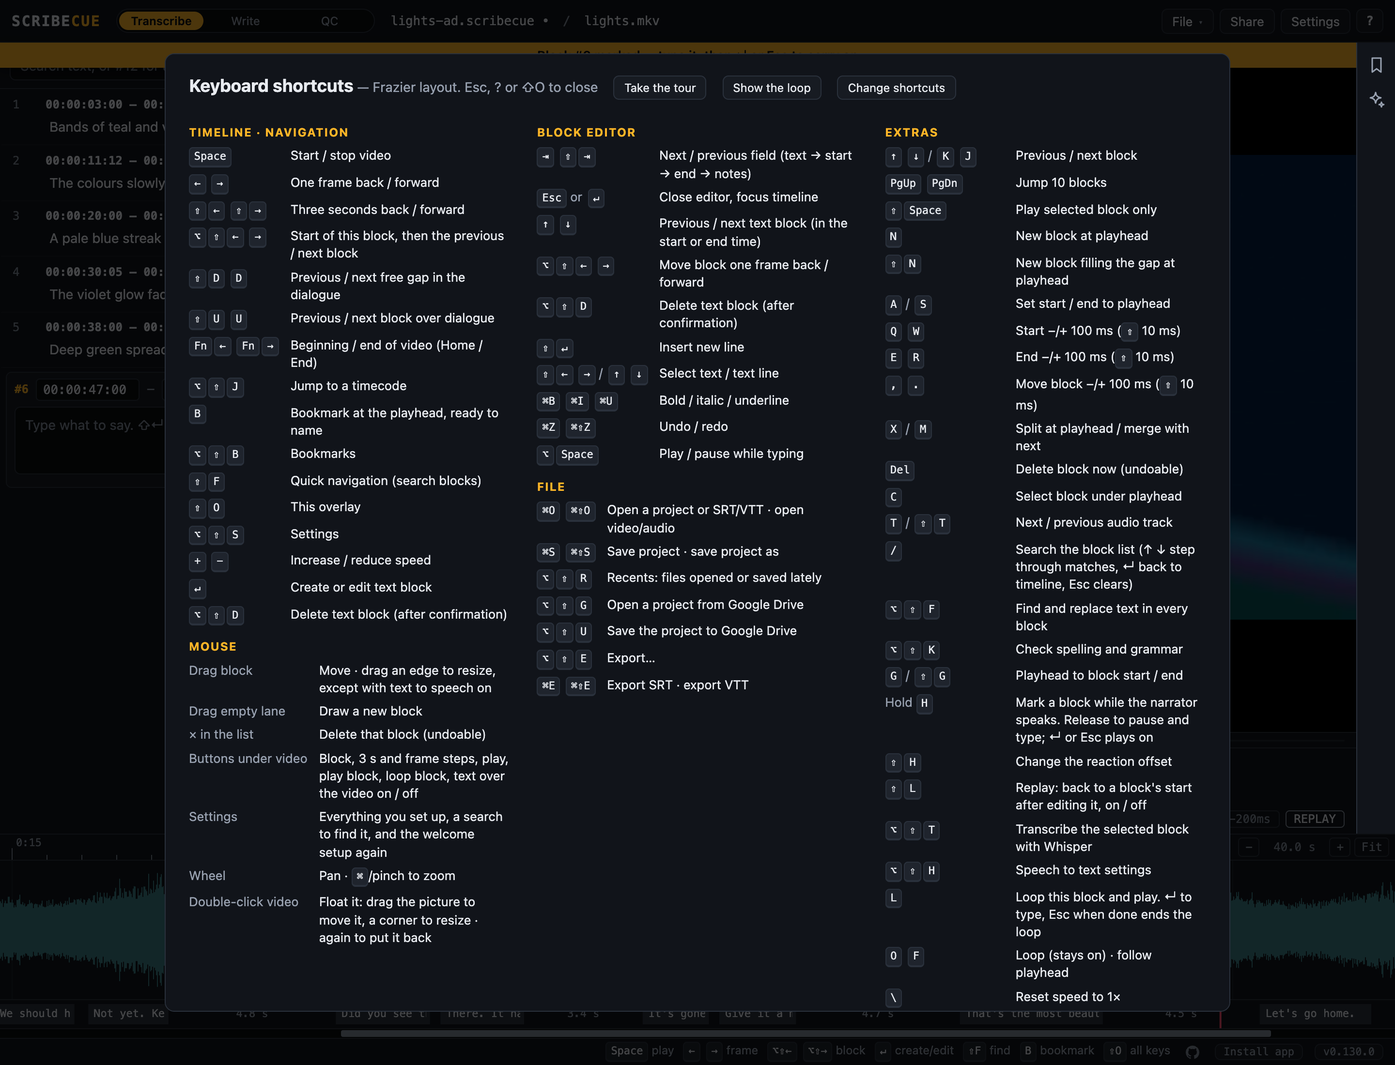
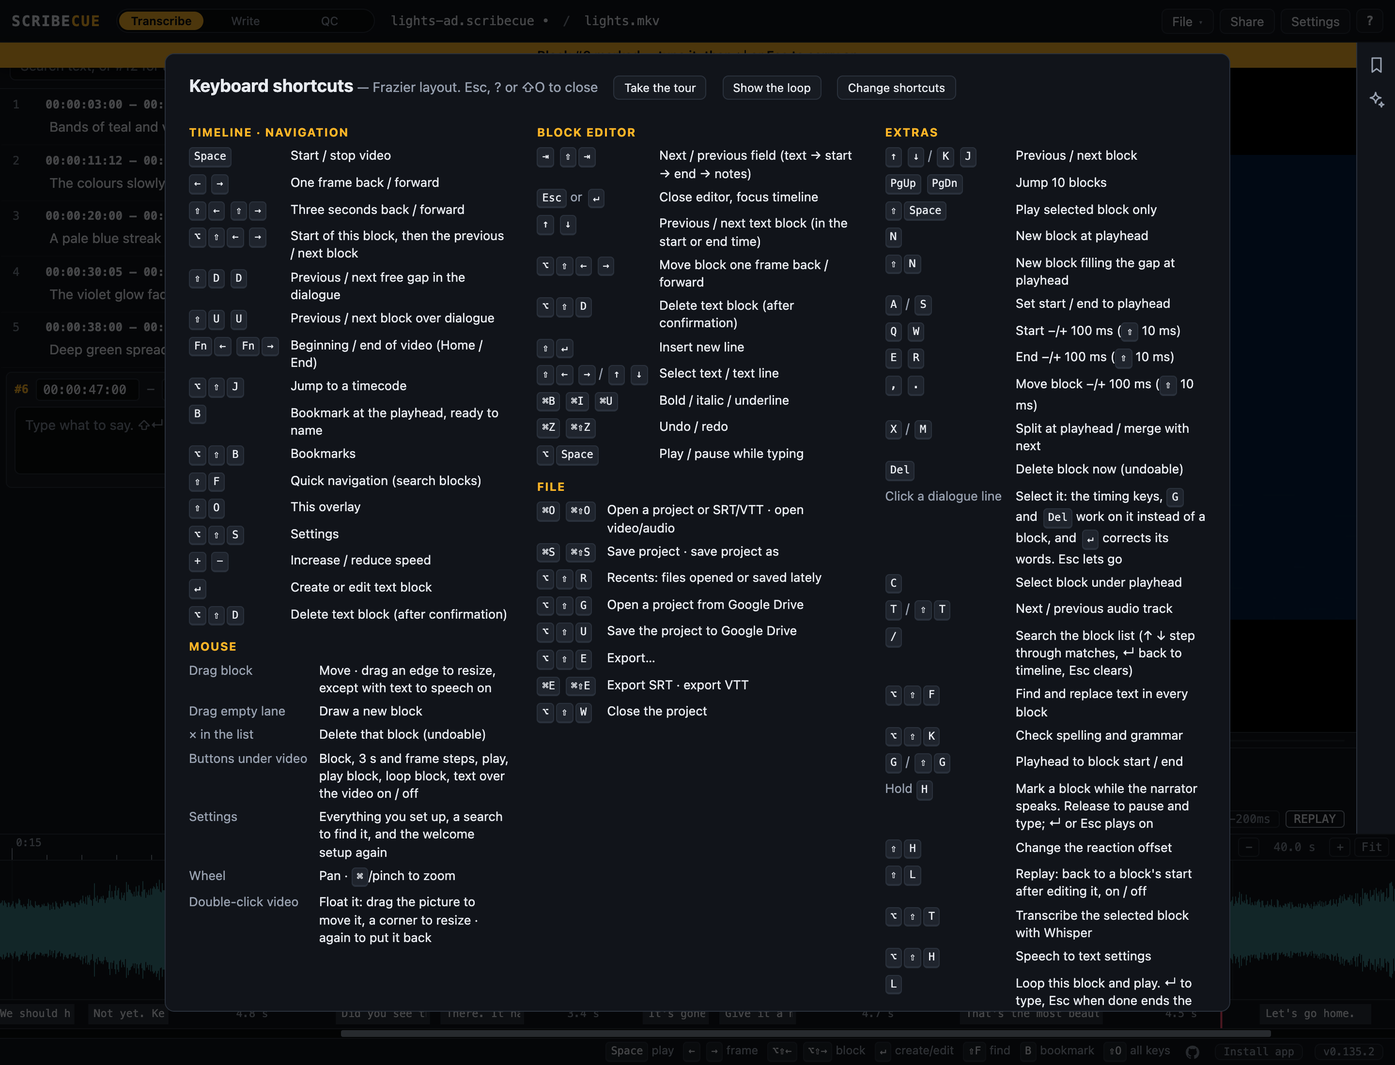
Add File → Close, and make New clear the blocks and the video (#127)
* Add File → Close, and make New clear the blocks and the video

Close (Alt+Shift+W) takes over New's "New project": it closes the project and the video,
asking to save first when there are unsaved changes, or explaining when leaving a shared
project. New now offers "Clear the blocks and the video" (asks to save the same way) and
"Next episode". New is hidden in QC and Record mode, where neither applies.

* Keep the Close screenshot offline

---------

diff --git a/app/js/app.js b/app/js/app.js
@@ -6300,56 +6300,82 @@ async function openAny() {
   }
 }
 
-// New: closes the video and clears the blocks, after asking.
-// New: a choice between clearing only the blocks and starting a whole new project.
+// New: clear the blocks and keep the video, or start the next episode. Close starts
+// different work.
 const newDlg = $('newDlg');
 function startAgain() {
   const blocks = S.cues.length, media = S.videoFile?.name;
-  if (!blocks && !media && !S.comments.length && !S.bookmarks.length && !S.notes.trim() && !S.dirty && !S.reviewId) return newProject(false);
   const n = blocks === 1 ? '1 block' : `${blocks} blocks`;
-  $('newWhat').textContent = S.comments.length && !blocks && !media ? `This project has ${S.comments.length} timeline comments.` : blocks ? `This project has ${n}${media ? `, with ${media} open` : ''}.` : media ? `${media} is open, with no blocks yet.` : 'This project has no blocks yet.';
   // Clearing a shared project's blocks clears them for everyone: only its owner may.
-  newDlg.querySelector('[data-choice="blocks"]').hidden = !blocks || qc() || (!!myShare && myShare.link !== 'owner');
+  const canClear = !!(blocks || media) && !qc() && !(!!myShare && myShare.link !== 'owner');
+  const canEpisode = !qc() && !S.reviewId && S.mode !== 'record';
+  if (!canClear && !canEpisode) { toast('Nothing to start again here. File → Close starts different work'); return; }
+  $('newWhat').textContent = blocks ? `This project has ${n}${media ? `, with ${media} open` : ''}.` : media ? `${media} is open, with no blocks yet.` : 'This project has no blocks yet.';
+  newDlg.querySelector('[data-choice="blocks"]').hidden = !canClear;
+  newDlg.querySelector('[data-choice="episode"]').hidden = !canEpisode;
   const unsaved = S.dirty && !myShare; // a shared project keeps its changes
-  $('newUnsaved').hidden = !unsaved;
-  $('newSave').hidden = !unsaved;
-  // The next episode of a series: a new project that keeps what carries over.
-  newDlg.querySelector('[data-choice="episode"]').hidden = qc() || !!S.reviewId || S.mode === 'record';
   const told = cleanScenes(S.scenes).some((s) => s.text.trim());
   $('newEpisodeNote').textContent = `A new project for the next episode of a series. Keeps your notes and spelling words${
     told ? `, and adds the story so far to the notes${aiConnected() ? ', written by AI help from the scene summaries' : ', from the scene summaries'}` : ''}.${unsaved ? ' Saves this episode first.' : ''}`;
-  $('newProjectLabel').textContent = unsaved ? 'Start without saving' : 'New project';
-  $('newProjectNote').textContent = myShare ? `Leaves this shared project and closes the video. The project stays in this browser: open it again from Shared projects.${relay?.unsent() ? ' Your last changes haven’t reached it yet. They’re kept here, and sent when you open it again.' : ''}`
-    : qc() ? 'Closes this review and the video, then opens a blank project in Write mode.' : 'Clears the blocks and notes, and closes the video, for different work.';
-  $('newUndo').hidden = !!S.reviewId;
+  $('newUndo').hidden = !blocks || !canClear;
   newDlg.showModal();
-  newDlg.querySelector(`[data-choice="${blocks && !qc() ? 'blocks' : 'project'}"]`).focus();
+  newDlg.querySelector(`[data-choice="${canClear ? 'blocks' : 'episode'}"]`).focus();
 }
 for (const b of newDlg.querySelectorAll('.wzchoice')) {
   b.addEventListener('click', () => {
     newDlg.close();
-    if (b.dataset.choice === 'blocks') clearBlocks();
-    else if (b.dataset.choice === 'episode') {
-      if (S.dirty && !myShare) startNewProject({ saveFirst: true, save: () => saveProject(), isDirty: () => S.dirty, start: nextEpisode });
-      else nextEpisode();
-    } else newProject(false);
+    if (b.dataset.choice === 'blocks') askToSave('clear');
+    else if (S.dirty && !myShare) startNewProject({ saveFirst: true, save: () => saveProject(), isDirty: () => S.dirty, start: nextEpisode });
+    else nextEpisode();
   });
 }
-$('newSave').addEventListener('click', async () => {
-  const b = $('newSave');
-  if (b.disabled) return;
-  b.disabled = true;
-  for (const choice of newDlg.querySelectorAll('.wzchoice')) choice.disabled = true;
-  try {
-    await startNewProject({ saveFirst: true, save: () => saveProject(), isDirty: () => S.dirty, start: () => { if (newDlg.open) { newDlg.close(); newProject(false); } } });
-  } finally {
-    b.disabled = false;
-    for (const choice of newDlg.querySelectorAll('.wzchoice')) choice.disabled = false;
-  }
-});
 $('newCancel').addEventListener('click', () => newDlg.close());
 newDlg.addEventListener('click', (e) => { if (e.target === newDlg) newDlg.close(); });
-document.addEventListener('keydown', (e) => { if (newDlg.open) e.stopPropagation(); }, true);
+document.addEventListener('keydown', (e) => { if (newDlg.open || closeDlg.open) e.stopPropagation(); }, true);
+
+// Close: the project and the video, for different work. Clearing the blocks and the
+// video asks the same way. Each asks first only when something would be lost or left:
+// changes not saved, or, for Close, a shared project.
+const closeDlg = $('closeDlg');
+const ASK = {
+  close: { title: 'Close the project?', save: 'Save and close', go: 'Close without saving', plain: 'Close' },
+  clear: { title: 'Clear the blocks and the video?', save: 'Save and clear', go: 'Clear without saving', plain: 'Clear' },
+};
+let asking = 'close';
+const closeProject = () => askToSave('close');
+function askToSave(what) {
+  const empty = !S.cues.length && !S.videoFile && !S.comments.length && !S.bookmarks.length && !S.notes.trim() && !S.reviewId;
+  const unsaved = S.dirty && !myShare && !empty, leaving = what === 'close' && !!myShare;
+  if (!unsaved && !leaving) return doAsked(what);
+  asking = what;
+  const words = ASK[what];
+  $('closeTitle').textContent = words.title;
+  $('closeWhat').textContent = leaving
+    ? `You’ll leave this shared project. It stays in this browser: open it again from Shared projects.${relay?.unsent() ? ' Your last changes haven’t reached it yet. They’re kept here, and sent when you open it again.' : ''}`
+    : `Your changes to ${S.subName === 'untitled.srt' ? 'this project' : S.subName} aren’t saved in a project file.`;
+  $('closeSave').hidden = !unsaved;
+  $('closeSave').textContent = words.save;
+  $('closeGo').textContent = unsaved ? words.go : words.plain;
+  closeDlg.showModal();
+  (unsaved ? $('closeSave') : $('closeGo')).focus();
+}
+function doAsked(what) {
+  if (what === 'clear') return clearBlocks();
+  const blocks = S.cues.length, review = qc();
+  newProject(false);
+  toast(review ? 'Closed the review' : blocks ? `Closed the project. ${IS_MAC ? '⌘Z' : 'Ctrl+Z'} brings the blocks back` : 'Closed the project');
+}
+$('closeGo').addEventListener('click', () => { closeDlg.close(); doAsked(asking); });
+$('closeSave').addEventListener('click', async () => {
+  const b = $('closeSave');
+  if (b.disabled) return;
+  b.disabled = $('closeGo').disabled = true;
+  try {
+    await startNewProject({ saveFirst: true, save: () => saveProject(), isDirty: () => S.dirty, start: () => { if (closeDlg.open) { closeDlg.close(); doAsked(asking); } } });
+  } finally { b.disabled = $('closeGo').disabled = false; }
+});
+$('closeCancel').addEventListener('click', () => closeDlg.close());
+closeDlg.addEventListener('click', (e) => { if (e.target === closeDlg) closeDlg.close(); });
 
 // Next episode: a new project with this one's notes and spelling words. The story so far
 // goes at the top of the notes: the one before, with this episode's scene summaries added,
@@ -6385,16 +6411,18 @@ async function nextEpisode() {
   toast(`Next episode: notes${recap ? ' with the story so far' : ''} and spelling words kept. Open its video with ${IS_MAC ? '⌘⇧O' : 'Ctrl+Shift+O'}.${said}`);
 }
 
-// Removes every block, keeping the video, the project file and the notes.
+// Removes every block and closes the video, keeping the project file and the notes.
 function clearBlocks() {
-  const n = S.cues.length;
-  if (!n) return;
+  const n = S.cues.length, media = !!S.videoFile;
+  if (!n && !media) return;
   stopJob();
+  closeVideo();
+  if (!n) return toast('Closed the video');
   pushUndo();
   S.cues = [];
   changed();
   select(null);
-  toast(`Cleared ${n === 1 ? 'the 1 block' : `all ${n} blocks`} — ${IS_MAC ? '⌘' : 'Ctrl+'}Z brings them back`);
+  toast(`Cleared ${n === 1 ? 'the 1 block' : `all ${n} blocks`} and closed the video — ${IS_MAC ? '⌘' : 'Ctrl+'}Z brings the blocks back`);
 }
 
 // ask: false when the choice was already made in the Start again dialog.
@@ -8062,6 +8090,7 @@ const actions = {
   help: () => toggleHelp(),
   settings: () => showGeneral(),
   newProject: () => startAgain(),
+  closeProject: () => closeProject(),
   comments: () => toggleComments(),
   bookmarks: () => toggleBookmarks(),
   share: () => shareUi?.open(),
@@ -8633,6 +8662,7 @@ const RUN = {
   recents: () => openRecents(),
   openDrive: () => openFromDrive(),
   saveDrive: () => saveToDrive(),
+  closeProject: () => closeProject(),
   zoomIn: () => zoom(1.5),
   zoomOut: () => zoom(1 / 1.5),
   zoomFit: () => fitAll(),

diff --git a/app/index.html b/app/index.html
@@ -52,7 +52,7 @@
       <span class="navwrap file-wrap">
         <button data-act="fileMenu" id="fileBtn" aria-haspopup="menu" aria-expanded="false" aria-controls="fileMenu">File <span class="caret" aria-hidden="true">▾</span></button>
         <div class="navmenu filemenu" id="fileMenu" role="menu" aria-labelledby="fileBtn" hidden>
-          <button role="menuitem" data-act="newProject"><span><strong>New…</strong><span class="dim">clear the blocks and keep the video, or start a new project</span></span></button>
+          <button role="menuitem" data-act="newProject" class="not-qc not-record"><span><strong>New…</strong><span class="dim">clear the blocks and the video, or start the next episode</span></span></button>
           <button role="menuitem" data-act="openSubs"><span><strong>Open…</strong><span class="dim">a project, a script (SRT or VTT), or video or audio</span></span><kbd><span class="mod"></span>O</kbd></button>
           <button role="menuitem" data-act="recents" id="recentsItem"><span><strong>Recents…</strong><span class="dim">projects, packages and recording files opened or saved lately</span></span><span data-keys="recents"><kbd>⌥⇧R</kbd></span></button>
           <button role="menuitem" data-act="openDrive" id="openDriveItem" hidden><span><strong>Open from Google Drive…</strong><span class="dim">a project you saved to Drive, on any computer</span></span><span data-keys="openDrive"><kbd>⌥⇧G</kbd></span></button>
@@ -61,6 +61,7 @@
           <button role="menuitem" data-act="saveProjectAs"><span><strong>Save as…</strong><span class="dim">the project as a new file</span></span><kbd><span class="mod"></span>⇧S</kbd></button>
           <button role="menuitem" data-act="saveDrive" id="saveDriveItem" class="not-record" hidden><span><strong>Save to Google Drive</strong><span class="dim">keep the project in your Drive, to open on any computer</span></span><span data-keys="saveDrive"><kbd>⌥⇧U</kbd></span></button>
           <button role="menuitem" data-act="exportDialog" class="export-item"><span><strong>Export…</strong><span class="dim">a file to hand on: a package, audio, the script or a video</span></span><span data-keys="exportDialog"><kbd>⌥⇧E</kbd></span></button>
+          <button role="menuitem" data-act="closeProject"><span><strong>Close</strong><span class="dim">the project and the video, for different work</span></span><span data-keys="closeProject"><kbd>⌥⇧W</kbd></span></button>
         </div>
       </span>
       <span id="qcPermission" class="autotag qc-only" aria-live="polite">Comments only</span>
@@ -573,16 +574,20 @@ docker compose up -d --build</code></pre>
   <dialog id="newDlg" class="updbox wizard" aria-labelledby="newTitle">
     <h2 id="newTitle">Start again</h2>
     <p id="newWhat"></p>
-    <button class="wzcard wzchoice" data-choice="blocks"><span><strong>Clear the blocks</strong>
-      <span class="dim" id="newBlocksNote">Removes every block and keeps everything else: the video, the project file and
-        your notes. Ready to write from scratch, or to open a script.</span></span></button>
+    <button class="wzcard wzchoice" data-choice="blocks"><span><strong>Clear the blocks and the video</strong>
+      <span class="dim" id="newBlocksNote">Removes every block and closes the video. Keeps the project file and your
+        notes. Ready to open another video or script.</span></span></button>
     <button class="wzcard wzchoice" data-choice="episode"><span><strong>Next episode</strong>
       <span class="dim" id="newEpisodeNote"></span></span></button>
-    <button class="wzcard wzchoice" data-choice="project"><span><strong id="newProjectLabel">New project</strong>
-      <span class="dim" id="newProjectNote">Clears the blocks and notes, and closes the video, for different work.</span></span></button>
-    <p id="newUnsaved" class="dim" hidden>Your changes aren’t saved. Save before starting a new project, or choose Start without saving.</p>
     <p id="newUndo" class="dim small"><kbd><span class="mod"></span>Z</kbd> brings the blocks back.</p>
-    <div class="updbtns"><button id="newSave" class="hl" hidden>Save and start new project</button><button id="newCancel">Cancel</button></div>
+    <p class="dim small">To start different work, use <strong>File → Close</strong>.</p>
+    <div class="updbtns"><button id="newCancel">Cancel</button></div>
+  </dialog>
+
+  <dialog id="closeDlg" class="updbox" aria-labelledby="closeTitle">
+    <h2 id="closeTitle">Close the project?</h2>
+    <p id="closeWhat"></p>
+    <div class="updbtns"><button id="closeSave" class="hl">Save and close</button><button id="closeGo">Close without saving</button><button id="closeCancel">Cancel</button></div>
   </dialog>
 
   <dialog id="changeDlg" class="updbox wizard" aria-labelledby="chgTitle">
@@ -1850,6 +1855,7 @@ docker compose up -d --build</code></pre>
             <dt class="save-key" data-keys="saveDrive"><kbd>⌥</kbd><kbd>⇧</kbd><kbd>U</kbd></dt><dd class="save-key">Save the project to Google Drive</dd>
             <dt class="export-key" data-keys="exportDialog"><kbd>⌥</kbd><kbd>⇧</kbd><kbd>E</kbd></dt><dd class="export-key">Export…</dd>
             <dt class="export-key"><kbd><span class="mod"></span>E</kbd> <kbd><span class="mod"></span>⇧E</kbd></dt><dd class="export-key">Export SRT · export VTT</dd>
+            <dt data-keys="closeProject"><kbd>⌥</kbd><kbd>⇧</kbd><kbd>W</kbd></dt><dd>Close the project</dd>
           </dl>
           <h3 class="record-only">Record mode</h3>
           <dl class="record-only">

diff --git a/app/css/style.css b/app/css/style.css
@@ -110,7 +110,7 @@ kbd + kbd { margin-left: 2px; }
 .mode-record .hint.record-only, .mode-record .setrec.record-only { display: block; }
 .mode-record dl.record-only { display: grid; } /* the shortcuts overlay's key lists */
 .mode-record .transcribe-only, .mode-record .write-only, .mode-record #modeSw { display: none; }
-.mode-record .not-record { display: none; }
+.mode-record .not-record, .mode-qc .not-qc { display: none; }
 /* Record mode: the script is locked, so nothing offers to change or save it. */
 .mode-record .rowdel, .mode-record .edmove, .mode-record #edAuto, .mode-record #edTts, .mode-record #replaceBtn, .mode-record #aiBtn,
 .mode-record nav [data-act=newProject], .mode-record nav [data-act=saveProject], .mode-record nav [data-act=saveProjectAs],
@@ -1466,7 +1466,7 @@ button.danger:disabled { color: var(--dim); border-color: var(--line); font-weig
 #aiNotes, #setAiNotesText { width: 100%; margin: 6px 0 2px; font: 13px/1.45 var(--sans); }
 #aiNotesBtn.on { color: var(--accent); border-color: var(--accent); }
 #verBtn.on { color: var(--accent); border-color: var(--accent); }
-#newDlg [hidden], #sttDlg [hidden] { display: none; }
+#newDlg [hidden], #closeDlg [hidden], #sttDlg [hidden] { display: none; }
 
 /* guided tour: the page dimmed except for the part being explained */
 .tour { position: fixed; inset: 0; z-index: 90; }

diff --git a/app/js/tour.js b/app/js/tour.js
@@ -119,7 +119,7 @@ export const STEPS = [
   {
     target: '#fileBtn',
     title: 'Projects and exports',
-    text: (mode) => `File has New, Open, Recents, Save and Export. Save keeps everything as a Scribecue project, so you can pick up where you left off, and Save to Google Drive lets you open it on any computer. Export (${keyFor('exportDialog')}) opens a window of every file you can make. ${mode === 'write'
+    text: (mode) => `File has ${mode === 'qc' ? '' : 'New, '}Open, Recents, Save, Export and Close. Save keeps everything as a Scribecue project, so you can pick up where you left off, and Save to Google Drive lets you open it on any computer. Export (${keyFor('exportDialog')}) opens a window of every file you can make. ${mode === 'write'
       ? 'It’s grouped by who it’s for: a QC package for a reviewer, a recording file for a narrator, finished audio, and files for other tools: the script as SRT, WebVTT or Excel, DAW markers and a video with subtitles.'
       : 'It has the script as SRT, WebVTT or Excel, DAW markers or a video with subtitles, to hand off.'} It can check spelling and grammar first.`,
   },

diff --git a/app/js/keymap.js b/app/js/keymap.js
@@ -114,6 +114,7 @@ export const GROUPS = [
     ['recents', 'Recents: files opened or saved lately', ['Alt+Shift+KeyR']],
     ['openDrive', 'Open a project from Google Drive', ['Alt+Shift+KeyG']],
     ['saveDrive', 'Save the project to Google Drive', ['Alt+Shift+KeyU']],
+    ['closeProject', 'Close the project', ['Alt+Shift+KeyW']],
     ['zoomIn', 'Zoom the timeline in', ['Alt+Equal', 'Alt+NumpadAdd']],
     ['zoomOut', 'Zoom the timeline out', ['Alt+Minus', 'Alt+NumpadSubtract']],
     ['zoomFit', 'Zoom the timeline to fit', ['Alt+Digit0', 'Alt+Numpad0']],

diff --git a/app/sw.js b/app/sw.js
@@ -38,7 +38,7 @@ const GUIDES = [
   'guides/docs/screenshots/comments.png', 'guides/docs/screenshots/bookmarks.png', 'guides/docs/screenshots/bookmarks-new.png',
   'guides/docs/screenshots/qc-playback.png',
   'guides/docs/screenshots/qc-editing.png',
-  'guides/docs/screenshots/qc-new-project.png',
+  'guides/docs/screenshots/qc-close.png',
   'guides/docs/screenshots/qc-package.png',
   'guides/docs/screenshots/recording.png',
   'guides/docs/screenshots/recording-menu.png',

diff --git a/Guides/TROUBLESHOOTING.md b/Guides/TROUBLESHOOTING.md
@@ -49,7 +49,7 @@ for its part of Scribecue: see [More help](#more-help).
 | Moving to another browser or computer, or between the web version and Docker | Save your projects and export your settings. See [Moving your work](INSTALL.md#moving-your-work). |
 | Google Drive won't connect | Allow pop-ups for Scribecue. Use the web version, or Docker at `localhost:8484` or `9484`: Google refuses other addresses. |
 | A project in Google Drive was saved as "Name (2)" | It changed on another computer since you opened it. Updating from 0.134.1 or older also makes one copy. Both are in Drive: open each, and keep the one you want. See the next row to tidy up. |
-| A copy you deleted in Google Drive comes back | Scribecue saved your work there again, so it isn't lost. To tidy up, start with **File → New…**. Then delete the copies you don't want in Drive, and rename the one you keep. Open it with **File → Open from Google Drive**. |
+| A copy you deleted in Google Drive comes back | Scribecue saved your work there again, so it isn't lost. To tidy up, start with **File → Close**. Then delete the copies you don't want in Drive, and rename the one you keep. Open it with **File → Open from Google Drive**. |
 | Settings from another browser haven't arrived | They're used when Scribecue opens again. In **Settings → Google Drive**, click **Reload now**. |
 | Worried the browser may clear your work | In **Settings → Offline and storage**, click **Keep it safe**. Saving a project keeps it safe either way. |
 | Wrong blocks after **File, New** | Press `Ctrl/Cmd+Z` to bring them back. |

diff --git a/Guides/GETTING-STARTED.md b/Guides/GETTING-STARTED.md
@@ -218,8 +218,10 @@ programme. `Ctrl/Cmd+O` opens it again.
   project and its video.
 - **The video reopens with the project.** If you're asked, click **Reopen**. If the video
   has moved, open it again with `Ctrl/Cmd+Shift+O`.
-- **File, New** either clears the blocks and keeps the video, or starts a whole new
-  project. `Ctrl/Cmd+Z` brings the blocks back.
+- **File, New** clears the blocks and closes the video, or starts the next episode.
+  With unsaved changes, it asks whether to save first. `Ctrl/Cmd+Z` brings the blocks back.
+- **File, Close** (`Alt+Shift+W`) closes the project and the video, for different work.
+  With unsaved changes, it asks whether to save first.
 - **File, Recents** (`Alt+Shift+R`) lists the last 20 projects, QC packages, recording
   files and session packages you opened or saved. Search by name, or show one kind.
 - **Take a file off Recents** with its **×**, or click **Clear all**. The files themselves
@@ -234,7 +236,7 @@ programme. `Ctrl/Cmd+O` opens it again.
   Scribecue saved yours beside it rather than over it. Both are in Drive.
 - **Rename a project in Drive** whenever you like. Scribecue keeps saving to it, under its
   new name.
-- **Deleting the project you have open?** Choose **File → New…** first. Otherwise Scribecue
+- **Deleting the project you have open?** Choose **File → Close** first. Otherwise Scribecue
   saves it to Drive again, so your work isn't lost.
 
 Saving to a file on this computer, autosave, Recents and reopening the video need Chrome or

diff --git a/Guides/SHARING.md b/Guides/SHARING.md
@@ -191,7 +191,7 @@ the start of the link, before the `#`, to your Docker address, such as `http://l
 | Replace a link | **Turn off**, then **Make link** | Only people with the new link and password can open it |
 | Stop sharing | **Stop sharing**, in Share | Every link stops working, and the sharing service's copy is deleted, with any video you sent. The project closes for everyone else. Your copy stays |
 | Leave someone's project | **Leave**, in Share | The project and its video are removed from this browser. To keep them as your own, click **Keep a copy here** first |
-| Work on something else | **File, New…**, or open another project | The shared project stays in this browser. Open it again from **File, Shared projects…**. Changes not sent yet go then |
+| Work on something else | **File, Close**, or open another project | The shared project stays in this browser. Open it again from **File, Shared projects…**. Changes not sent yet go then |
 
 **Your saved project file** is a copy of the shared project as it was when you saved. If
 you open it in a browser that has the shared project, Scribecue asks first. It can open the

diff --git a/Guides/QC.md b/Guides/QC.md
@@ -62,9 +62,9 @@ accept a review into your authoring project, you can edit it in QC too. The head
 Older QC packages without a saved permission open as comments-only. New packages need
 an updated Scribecue on both computers so the creator’s choice is respected.
 
-To leave a review and start different work, click **File**, **New…**, then **New project**.
-If you have unsaved changes, choose **Save and start new project** or **Start without saving**.
-The new project opens in Write mode. Reopen your saved package to return to the review.
+To leave a review and start different work, click **File**, then **Close** (`Alt+Shift+W`).
+If you have unsaved changes, choose **Save and close** or **Close without saving**.
+A blank project opens in Write mode. Reopen your saved package to return to the review.
 
 A recording file (`.scribecuerec`) opens in Record mode. Click **Leave**, then open the
 project or QC package. [Recording narration](RECORDING.md) covers recording files.

diff --git a/Guides/SHORTCUTS.md b/Guides/SHORTCUTS.md
@@ -68,6 +68,7 @@ takes them to another browser with your other settings.
 | `Alt+Shift+E` | Export: every file you can make. Not with a QC package open in QC |
 | `Ctrl/Cmd+E` / `Ctrl/Cmd+Shift+E` | Export SRT / WebVTT. Not with a QC package open in QC. Only the owner, in a shared project |
 | `Ctrl/Cmd+O` / `Ctrl/Cmd+Shift+O` | Open a project or script / open a video or audio file |
+| `Alt+Shift+W` | Close the project and the video, for different work |
 
 </details>
 
